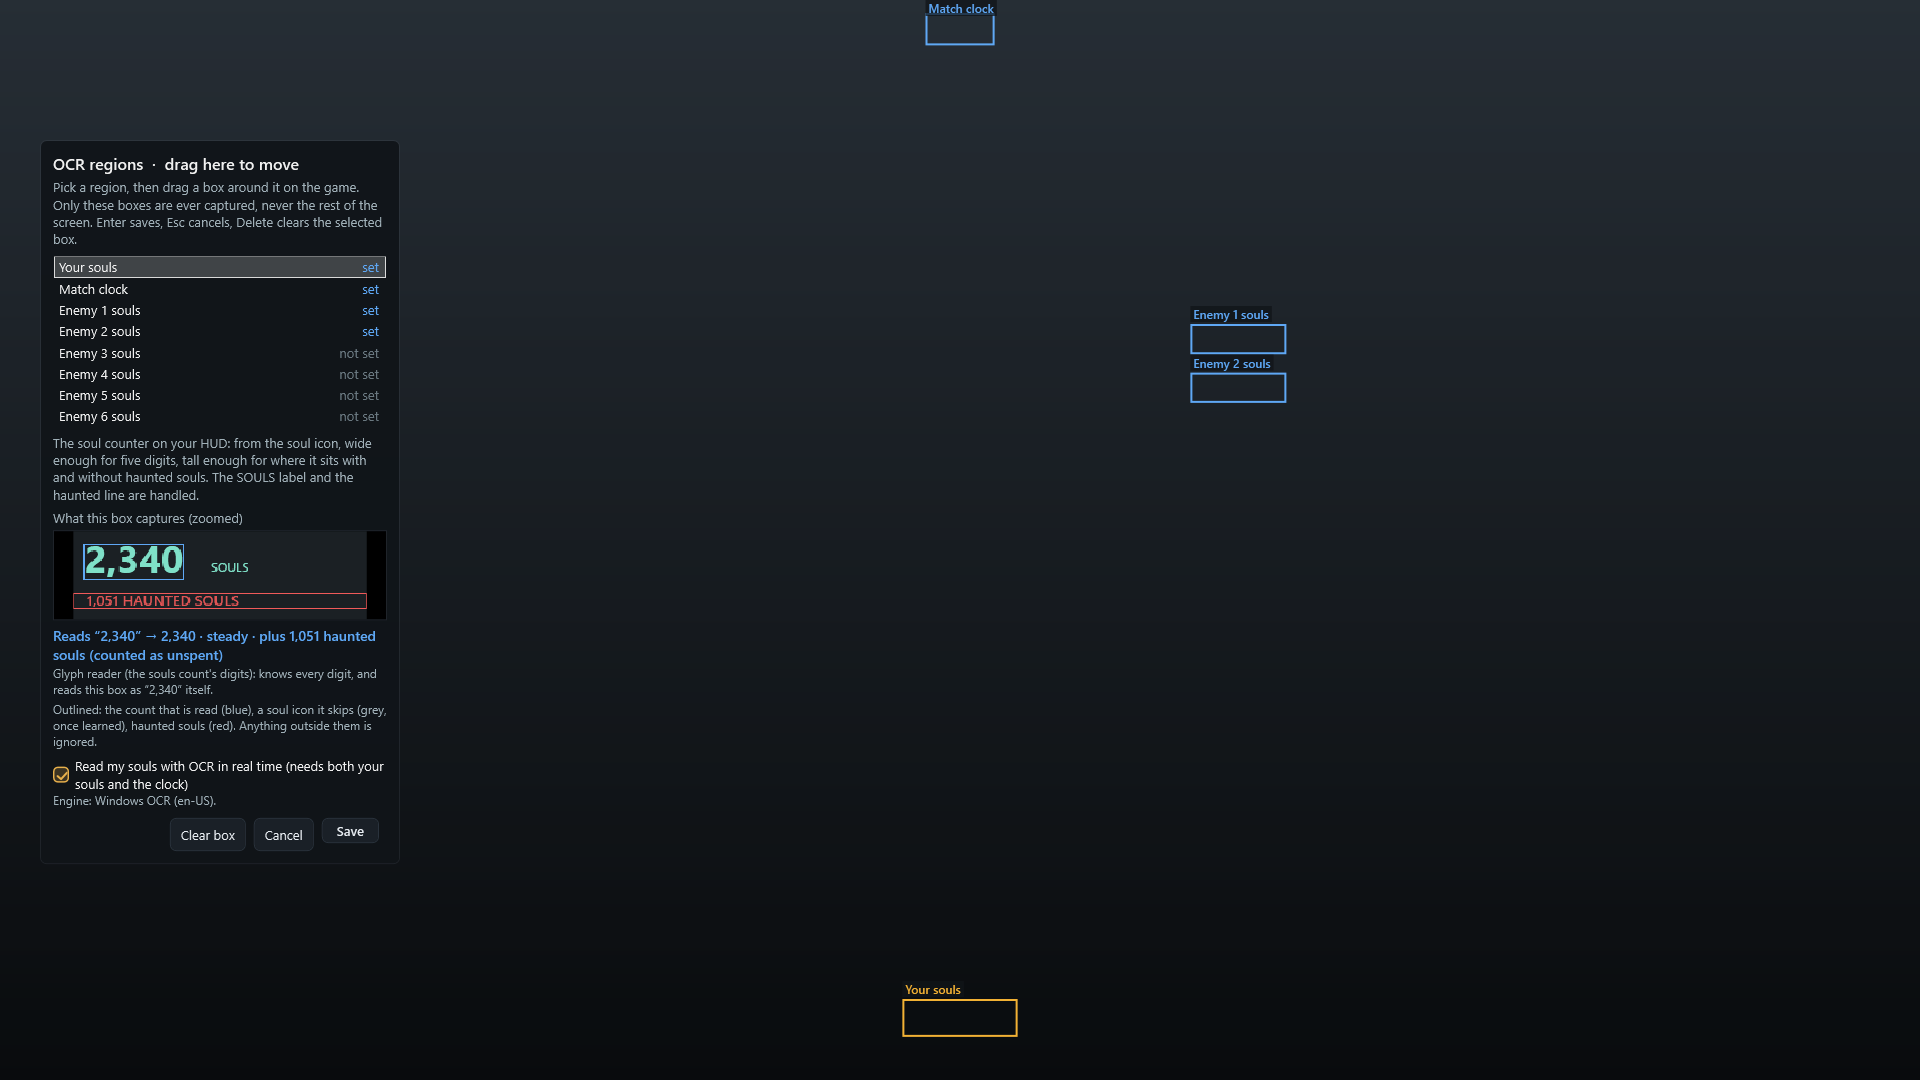
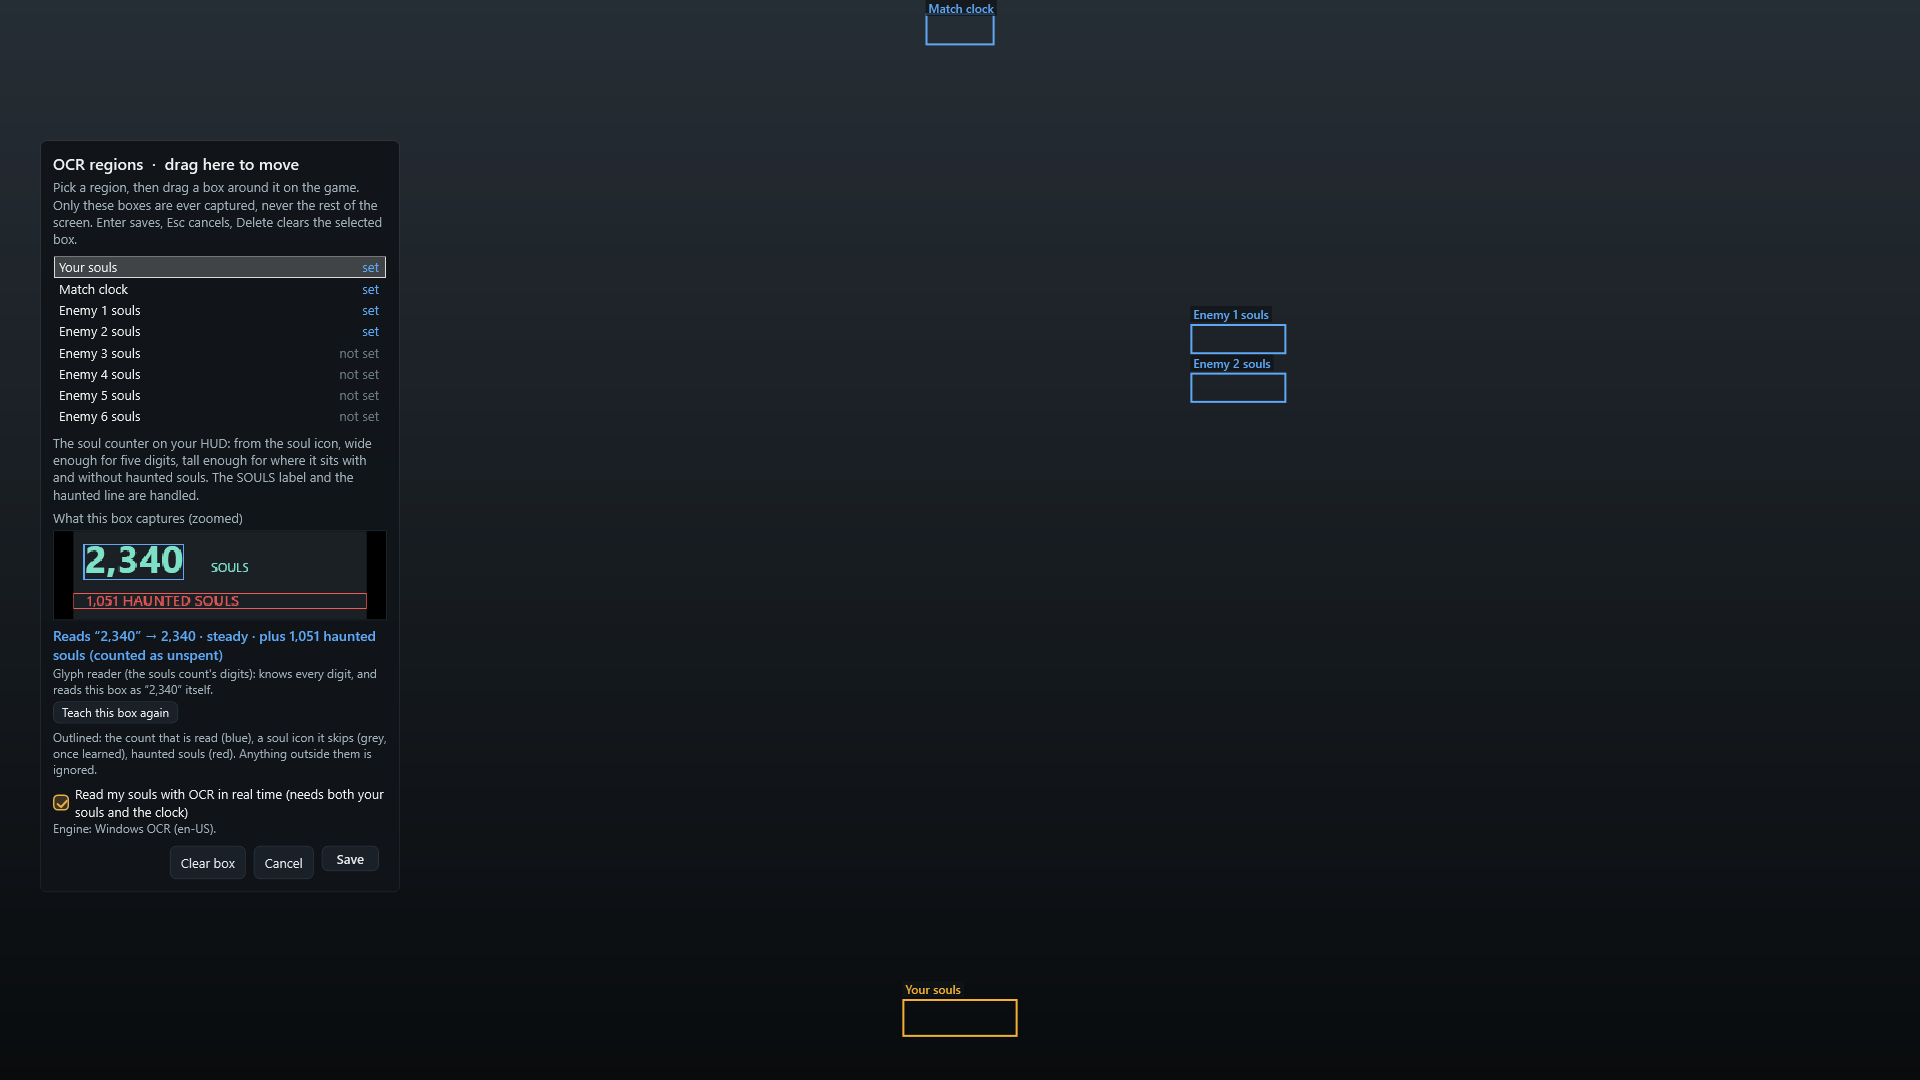
Calibration tool: "Teach this box again" forgets one box's glyphs (#136)
* Calibration tool: "Teach this box again" forgets one box's glyphs

Under the glyph line, for the souls and clock boxes once they have learned
anything: it clears that box's GlyphSet (digits and the soul icon), resets the
box's steady check, and the emptied set is saved when the tool closes; the next
steady readings teach it afresh. For a patch that changed the HUD font, or a box
taught from a bad drawing, instead of deleting glyphs.json by hand.

Claude-Session: https://claude.ai/code/session_01LSDkBn23Na5vMSKWLtGadZ

* Update app screenshots

---------

Changed region(s): [[0.0312, 0.6417, 0.1875, 0.825]]

diff --git a/src/DeadlockScout.App/Calibration/CalibrationWindow.xaml b/src/DeadlockScout.App/Calibration/CalibrationWindow.xaml
@@ -50,6 +50,9 @@
                     </Border>
                     <TextBlock x:Name="ReadingLine" TextWrapping="Wrap" FontSize="14" FontWeight="SemiBold" Margin="0,2,0,2"/>
                     <TextBlock x:Name="GlyphLine" TextWrapping="Wrap" Foreground="#A0B0B8" FontSize="12" Margin="0,0,0,4"/>
+                    <Button x:Name="RelearnButton" Content="Teach this box again" Click="RelearnClicked" Padding="8,2" Margin="0,0,0,6"
+                            HorizontalAlignment="Left" FontSize="12" Visibility="Collapsed"
+                            ToolTip="Forget the glyphs learned for this box (its digits and, for the souls count, its soul icon) and learn them again from the next steady readings: after a game patch changed the HUD's font, or when the box was taught from a bad drawing"/>
                     <TextBlock x:Name="PreviewNote" TextWrapping="Wrap" Foreground="#A0B0B8" FontSize="12"/>
                     <CheckBox x:Name="UseOcr" Foreground="#F0F0F0" Margin="0,8,0,0">
                         <TextBlock TextWrapping="Wrap" Width="310" Text="Read my souls with OCR in real time (needs both your souls and the clock)"/>

diff --git a/src/DeadlockScout.App/Calibration/CalibrationWindow.xaml.cs b/src/DeadlockScout.App/Calibration/CalibrationWindow.xaml.cs
@@ -271,8 +271,9 @@ public partial class CalibrationWindow : Window
     private void ShowGlyphs(CapturedFrame? crop)
     {
         var set = SetFor(_selected);
-        if (set is null) { GlyphLine.Visibility = Visibility.Collapsed; return; }
+        if (set is null) { GlyphLine.Visibility = Visibility.Collapsed; RelearnButton.Visibility = Visibility.Collapsed; return; }
         GlyphLine.Visibility = Visibility.Visible;
+        RelearnButton.Visibility = set.Known.Length > 0 || set.Icon is not null ? Visibility.Visible : Visibility.Collapsed;
         bool clock = _selected == RegionCalibration.TimerKey;
         string which = clock ? "the clock's digits" : "the souls count's digits";
         var digits = new string(set.Known.Where(char.IsDigit).ToArray());
@@ -309,6 +310,16 @@ public partial class CalibrationWindow : Window
     }
 
     private void ClearClicked(object sender, RoutedEventArgs e) => ClearSelected();
+
+    /// <summary>Forgets the selected box's glyphs (and icon) so the next steady readings teach them afresh; saved on close.</summary>
+    private void RelearnClicked(object sender, RoutedEventArgs e)
+    {
+        if (SetFor(_selected) is not { } set) return;
+        set.Clear();
+        _check.Reset(_selected); // "steady" is earned again before anything is learned
+        _glyphsLearned = true;   // the emptied set is written when the tool closes
+        ShowGlyphs(null);
+    }
     private void CancelClicked(object sender, RoutedEventArgs e) => Close();
     private void SaveClicked(object sender, RoutedEventArgs e) => Save();
 
@@ -382,6 +393,7 @@ public partial class CalibrationWindow : Window
         UseOcr.IsEnabled = true;
         EngineNote.Text = "Engine: Windows OCR (en-US).";
         GlyphLine.Visibility = Visibility.Visible;
+        RelearnButton.Visibility = Visibility.Visible;
         GlyphLine.Text = _selected == RegionCalibration.SoulsKey
             ? "Glyph reader (the souls count's digits): knows every digit, and reads this box as “2,340” itself."
             : "Glyph reader: knows every digit, and reads this box as “9,850” itself.";

diff --git a/docs/features.md b/docs/features.md
@@ -11,7 +11,7 @@ window.
 - **Soul-rate meter**: 2-minute rolling souls per minute against a per-hero, per-rank pace curve, with percentile when the data supports it, and a sparkline of your pace over the last ten minutes. Two thinner lines on the same sparkline track your lane opponents (or, without a lane, the two richest enemies) against the same curve, so a line above yours is farming faster; the legend under it gives their souls against yours ("Lady Geist +1.2k"). Their lines end where the broadcast is, about half a minute back (`overlay.panels.sparklineEnemies`). Under it, the **rank gate**: the next rank's average pace on your hero over the same window and how you stand against it ("Oracle gate 640 spm · you +5%"). The gate is the tier above yours, never below Alchemist unless you tick Initiate & Seeker in the match history (`goal.includeLowRanks`); `goal.rank` names a fixed tier instead, `goal.overlay` turns the line off. In a match those two lines only show while the scout list is up (Ctrl+Shift+L); the main window always shows them. In the strip's top row, **live phase chips** (laning, mid game, late game) show how each phase has gone against the goal so far, the current one outlined in gold, and while you are behind in laning or mid game a hint says what you need to catch up by the phase's end ("need 730 spm to 20:00 to catch Oracle"); `goal.phases` turns them off.
 - **Lane matchups**: your hero's lane win rate against each lane opponent's hero at your rank, and under each opponent their **recent form**: their last ten games on that hero (record, souls per minute) against their usual pace on it, red when they are farming faster than usual ("last 10 on Lady Geist: 7–3 · 846/min, +9% on their usual"). One match-history call per lane opponent, cached a day; `overlay.panels.laneForm` turns it off.
 - **Build hint**: what your hero's players buy at your current souls, with their win rate, and your next usual ability point. Under it, the **next item nudge**: your usual next big item on this hero (3,000 souls and up, from your last 30 games, skipping what you already own) and when the rank gate's players have it, "Next: Fortitude · Oracle has it by 14:44 · in 0:24", gold 30 s before and red once you are past it. With the rank's soul curve it says it **at your pace** instead (0.3): how long, at your souls per minute over the last two minutes, until you have the souls the rank's players have when they buy it ("Next: Fortitude ~2:10 at your pace · Oracle 16:30", or "you have Oracle's souls for it"); not once you are past the rank's time, and none beyond ten minutes. It compares net worth with net worth, so it needs no guess at how many of your souls are unspent. `overlay.panels.nextItem` turns it off.
-- **Real-time souls by OCR** (M6, opt in): draw boxes over your soul count, the match clock and the enemy scoreboard souls, and the built-in Windows OCR reads them once a second, so your pace no longer lags the broadcast by a minute. The HUD's counter is your unspent souls, so the app adds the price of the items the broadcast says you hold, and of anything you bought since (a drop of about one item's price, read twice), to make it your net worth, which is what the pace curves count (0.3); haunted souls (unsecured: spendable, lost if you die), shown in a smaller line under the count, are read and added to your unspent souls, and the "SOULS" label beside the count is left out (0.3.1); Diagnostics' "OCR net worth" line says how close that came to the broadcast's once it caught up. While you are dead the game shows a teammate's souls in your HUD's place; those readings are held back (up to two minutes by the PC's clock, so a misread match clock cannot cut the hold short) and dropped, so cycling through teammates no longer moves your souls per minute. The clock read off the HUD has to follow the last good one (never backwards, never further ahead than the real time since), so a misread clock ("22:52" for 12:52) drops its whole reading instead of placing your souls at the wrong time; the log counts the clock readings ignored. The calibration tool reads the selected box live and says what is wrong with it: red when the reading is not a number (or a clock), gold when the box also reads something besides the number ("768 9": a stray glyph) or when its readings jump in a way the game never does (768 then 7,689: the soul icon read as a digit now and then), blue with "steady" when it reads cleanly. **Glyph reader** (0.3): each steady reading also teaches the app the HUD's digits, and once it knows all ten it reads the souls and the clock itself, a few pixels' comparison instead of a full OCR engine, asking Windows OCR only for a box it cannot read clearly (so with clean boxes Windows OCR never even loads). The clock and the souls count are drawn in different fonts, so each box learns its own digits (0.3.1): keep the match clock selected in the tool for ten seconds or so while it ticks and it learns the clock's; the souls count learns its own as your souls change, in the tool or during a match from readings that pass the app's checks. The tool's line under the reading says what the selected box still misses. The souls box's preview outlines what is read (0.3.3): the count in blue, the soul icon in grey once the glyph reader has learned it (an extra glyph left of the number that the readings never include; from then on it is cut off before every read, so the box may start at the icon), and haunted souls in red. Diagnostics shows how many reads it answers, and asks for a recalibration when most of them fall back (a patch changed the HUD font). `ocr.glyphReader` in Settings → OCR turns it off. Only those boxes are ever captured, never the rest of the screen, and nothing while OCR is off. Needs Windows 10 2004 or later and a Windows language with OCR support (English is).
+- **Real-time souls by OCR** (M6, opt in): draw boxes over your soul count, the match clock and the enemy scoreboard souls, and the built-in Windows OCR reads them once a second, so your pace no longer lags the broadcast by a minute. The HUD's counter is your unspent souls, so the app adds the price of the items the broadcast says you hold, and of anything you bought since (a drop of about one item's price, read twice), to make it your net worth, which is what the pace curves count (0.3); haunted souls (unsecured: spendable, lost if you die), shown in a smaller line under the count, are read and added to your unspent souls, and the "SOULS" label beside the count is left out (0.3.1); Diagnostics' "OCR net worth" line says how close that came to the broadcast's once it caught up. While you are dead the game shows a teammate's souls in your HUD's place; those readings are held back (up to two minutes by the PC's clock, so a misread match clock cannot cut the hold short) and dropped, so cycling through teammates no longer moves your souls per minute. The clock read off the HUD has to follow the last good one (never backwards, never further ahead than the real time since), so a misread clock ("22:52" for 12:52) drops its whole reading instead of placing your souls at the wrong time; the log counts the clock readings ignored. The calibration tool reads the selected box live and says what is wrong with it: red when the reading is not a number (or a clock), gold when the box also reads something besides the number ("768 9": a stray glyph) or when its readings jump in a way the game never does (768 then 7,689: the soul icon read as a digit now and then), blue with "steady" when it reads cleanly. **Glyph reader** (0.3): each steady reading also teaches the app the HUD's digits, and once it knows all ten it reads the souls and the clock itself, a few pixels' comparison instead of a full OCR engine, asking Windows OCR only for a box it cannot read clearly (so with clean boxes Windows OCR never even loads). The clock and the souls count are drawn in different fonts, so each box learns its own digits (0.3.1): keep the match clock selected in the tool for ten seconds or so while it ticks and it learns the clock's; the souls count learns its own as your souls change, in the tool or during a match from readings that pass the app's checks. The tool's line under the reading says what the selected box still misses, and **Teach this box again** under it forgets that box's glyphs to learn them afresh (after a patch changed the HUD font) (0.3.3). The souls box's preview outlines what is read (0.3.3): the count in blue, the soul icon in grey once the glyph reader has learned it (an extra glyph left of the number that the readings never include; from then on it is cut off before every read, so the box may start at the icon), and haunted souls in red. Diagnostics shows how many reads it answers, and asks for a recalibration when most of them fall back (a patch changed the HUD font). `ocr.glyphReader` in Settings → OCR turns it off. Only those boxes are ever captured, never the rest of the screen, and nothing while OCR is off. Needs Windows 10 2004 or later and a Windows language with OCR support (English is).
 - **Post-match report**: result, K/D/A, souls per minute, where you ranked on your team, your pace against the benchmark at 10, 20 and 30 minutes, how your lane went, and each phase against the rank above yours ("Against Oracle: laning +6% · mid game −9% · late game +6% · most lost in mid game"), shown in the main window and as a tray notice once deadlock-api has the match. Replay salts from your Steam cache are sent to deadlock-api automatically (once per match; `ingest.autoSubmitSalts`) so your matches get on record; they land in Steam's cache when you open a match in Deadlock's in-game match history, and **Send my matches to deadlock-api** in the match history sends them at once and says what it found (Diagnostics shows the last scan).
 - **Match history**: your last 20 games with your rank over 30 days, win rate, KDA, main heroes and the last 15 results, then a card per game (result, hero, K/D/A, final items, souls and souls per minute, last hits, where your souls ranked on your team, both teams). Each card puts your total souls beside the K/D/A. Open a game for its **soul timeline** (your souls through the match, with every item you bought marked where you bought it, coloured by slot, and a dashed **rank gate**: the average souls on that hero of a rank you pick from a drop-down, Eternus down to Alchemist, starting on the tier above yours, with how far above or below it you finished, split into laning, mid game and late game chips; the timeline marks the three phases) and its **item purchases** in order, sold ones included. An **item timings** card lists the items you buy most with your average buy time against the rank gate's ("Headhunter 13:58 · Oracle 12:07 · +1:51"), and names the item furthest behind; each purchase on an opened game shows the rank's time and your gap too. A **phases** card pools laning (0–10 min), mid game (10–20) and late game (20+) over the page's games against the rank gate: your souls per minute and the rank's in each, how many souls a game you are behind or ahead, and which phase costs you the most. Above the cards, **trends** over your last 20, 50 or 100 games, for all heroes or one: rolling win rate and souls per minute (each game a dot coloured by result), the older half against the newer half for win rate, souls per minute and KDA, and a row per hero (games, W–L, win rate, KDA, souls per minute, last played), all from the history already fetched. **Soul sources**: an opened game lists where its souls came from (troopers, jungle, kills, objectives, the rest, and what you lost on death), each against the rank gate, and a card over the page names the source that costs you the most souls a game ("Troopers cost you the most: 1.2k souls a game behind Oracle"). **Weekly summary**: a "last week" card in the main window sets your last full week against the week before (games, record, rank change, souls per minute, the phase and item that improved most) and names one thing to work on next week. **Goals**: set your own targets in the match history (laning pace by 10:00, at most so many deaths in laning, a phase to fix against the rank gate); every game is marked hit or missed, and the card shows each target's hit rate over your last 20 games with a dot per game. During a match (0.3) the pace strip checks them live under the phase chips: "Goals: on track for 420 spm by 10:00 · one laning death left" (or the pace the rest of laning needs), then, while the phase you chose to fix is on, "mid game to fix: −7% on the gate". Your deaths come from the broadcast; not while spectating; `overlay.panels.liveGoals` turns it off. **Unspent souls** (0.3): from 3,000 souls not spent (Settings → Overlay, `coaching.unspentSouls`; 0 turns it off) the pace strip says "3.4k unspent: spend before you fight", live from the HUD's counter with OCR on, else from the broadcast's net worth less the items held, with its game time since it is about 35 s late. **Death review**: each death on an opened game with the souls you were carrying unspent (red at 3k or more) and a cross on the soul timeline, the souls the rank gate gained while you were dead, and a card over the page ("Spend before you fight: 9 of 24 deaths came with 3k or more souls unspent"). **Counter notes**: an opened game lists each enemy hero with their counter items for the hero you played (the same measured items as the scout list's [!] tags, up to three, each marked bought or not in that game), and a **heroes that beat you** card names the enemy heroes you lose to most over the page (your W–L with them in the enemy line-up) with their counter items. One cached call per hero pair, made when a game is first opened. One bulk call fetches the games not seen before; a finished game is cached for good. **Processing cards**: a game you just played shows at the top straight away (hero, when, roughly how long), even before deadlock-api lists it in your history, which can take hours; it becomes a full card as soon as the API has the match, and the post-match follow-up asks deadlock-api to fetch it from Steam twice (8 and 60 minutes after the match) when nobody else has sent it. From the main window or the tray.
 - **Session view**: today's wins and losses, your streak, how your rank moved, a nudge after three losses in a row, and your most played heroes against their meta win rate at your rank. In the overlay only outside a match, and in the main window.

diff --git a/docs/troubleshooting.md b/docs/troubleshooting.md
@@ -104,7 +104,8 @@ The app learns about your match from the game's own log, which Deadlock only wri
   the game running and keep the match clock box selected for ten seconds or so: each steady reading teaches it the
   clock's digits. The souls count has its own font and learns its own digits as your souls change, so it can say
   "learning" for the first minutes of a match; Diagnostics names each box ("clock: ready …; souls: learning …").
-  After a patch that changed the HUD font it relearns the same way. Settings → OCR turns the glyph
+  After a patch that changed the HUD font, select the box in the calibration tool and click **Teach this box again**
+  (0.3.3): it forgets that box's glyphs, and its soul icon, and learns them afresh the same way. Settings → OCR turns the glyph
   reader off, and Windows OCR reads everything as before.
 - **OCR reads wrong numbers.** Recalibrate (tray → Calibrate OCR regions, or the button in Settings → OCR) after changing the game's resolution or HUD
   scale. While you are dead the HUD can show a teammate's souls; the app drops those readings (Diagnostics counts them).

diff --git a/docs/roadmap.md b/docs/roadmap.md
@@ -177,6 +177,9 @@ Carried over from 0.2:
 - [ ] Fix what 0.2's checks and gate find (`docs/verification/checks-0.2.md`): camp and crate intervals, the crate
   radius, memory after the main-window release, the double tap in a real match, anything else they show. One line
   each here as they come in.
+- [x] "Teach this box again" in the calibration tool: forgets the selected box's glyphs and soul icon so the next
+  steady readings teach them afresh (after a patch changed the HUD font, or a box taught from a bad drawing), instead
+  of deleting `glyphs.json`.
 - [x] Whether the broadcast counts haunted souls, answered by the next match (verification note 43): readings that
   carried haunted souls (`SoulSample.Haunted`) are compared with the broadcast's net worth both counting them and
   leaving them out (`OcrJumpGuard.HauntedVerdict`), and Diagnostics' "OCR net worth" line names the one that agrees.
